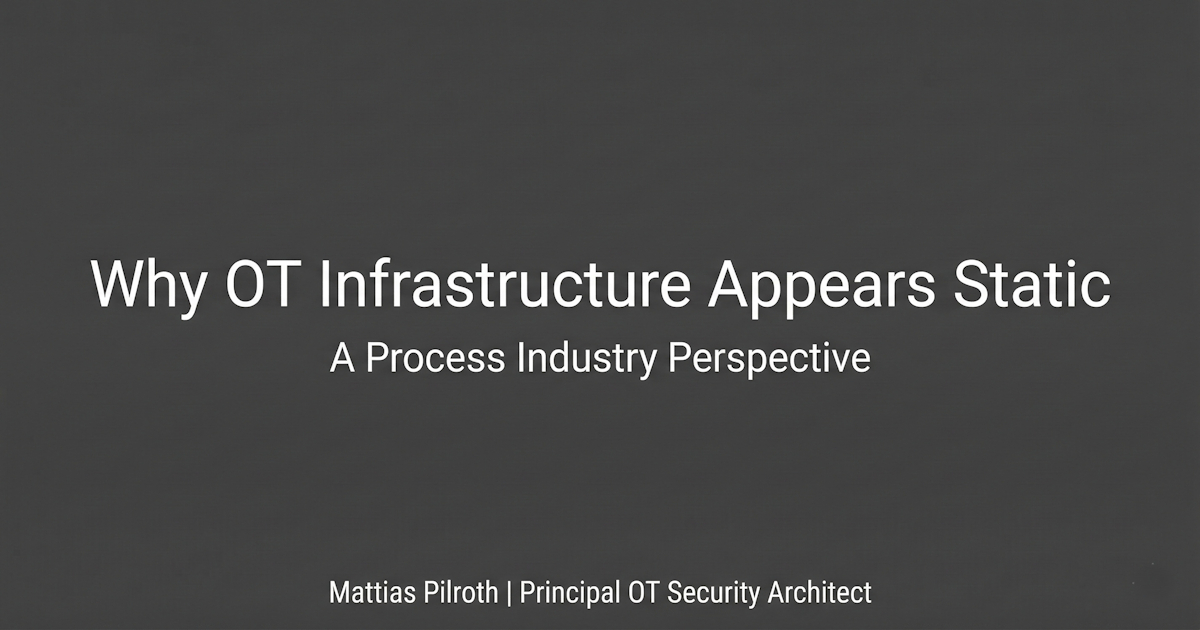
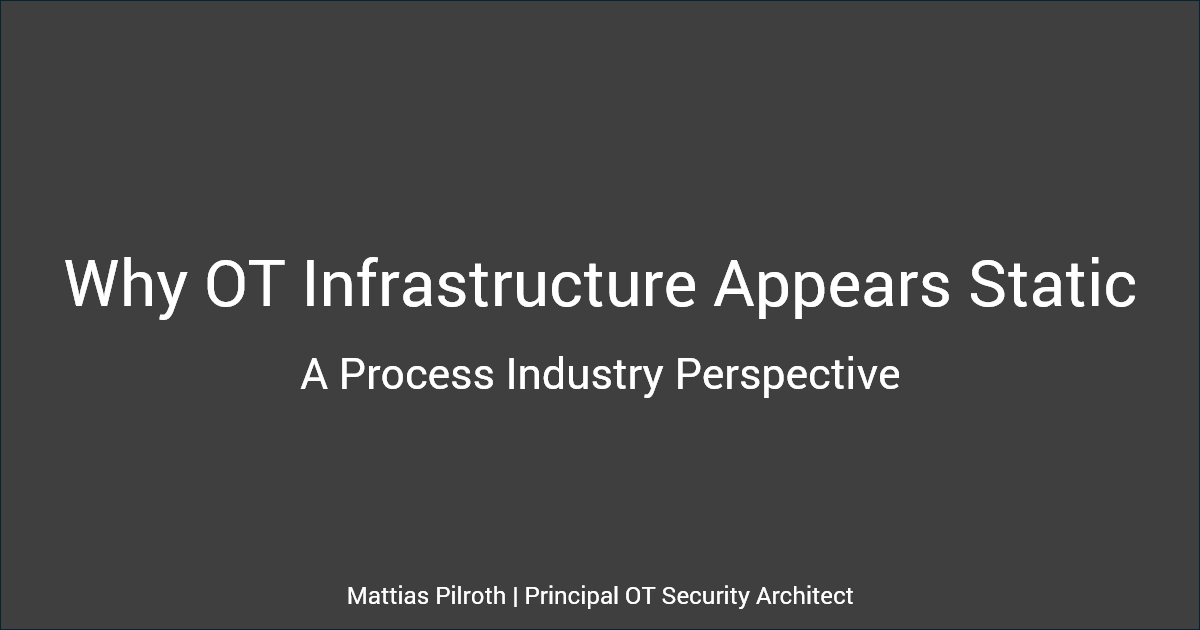
fix og images

diff --git a/content/papers/ot-identity-architecture.md b/content/papers/ot-identity-architecture.md
@@ -3,6 +3,7 @@ title: "OT Identity Architecture: Federation, PAM, and Residual Risk"
 date: 2026-02-25
 lastmod: 2026-02-25
 description: "A structural analysis of common identity models in OT."
+image: "images/og-ot-identity.jpg"
 ---
 
 Identity architectures in OT operate under the same constraints that shape all long-lifecycle operational infrastructure: limited change capacity, intermittent connectivity, and operational accountability that prioritizes continuity over administrative convenience.

diff --git a/content/papers/compliance-and-consequence.md b/content/papers/compliance-and-consequence.md
@@ -3,6 +3,7 @@ title: "Compliance and Consequence: Competing Priorities in OT Security"
 date: 2026-02-25
 lastmod: 2026-02-25
 description: "Analysis of diverging incentives in OT security programs."
+image: "images/og-ot-compliance.jpg"
 ---
 
 Security in high-consequence industrial control environments operates under a persistent tension: organizations must demonstrate measurable security progress while the evidence for what actually reduces risk remains limited.

diff --git a/content/papers/silent-degradation-under-it-ot-convergence.md b/content/papers/silent-degradation-under-it-ot-convergence.md
@@ -3,6 +3,7 @@ title: "Silent Degradation under IT/OT Convergence"
 date: 2026-02-25
 lastmod: 2026-02-25
 description: "Analysis of recurring failure pattern in production OT environments undergoing IT/OT convergence."
+image: "images/og-ot-silent.jpg"
 ---
 
 This paper describes a recurring failure pattern in production OT environments undergoing IT/OT convergence.
